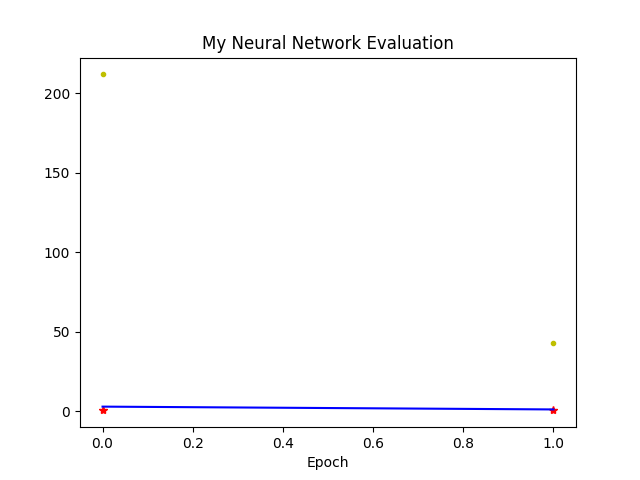
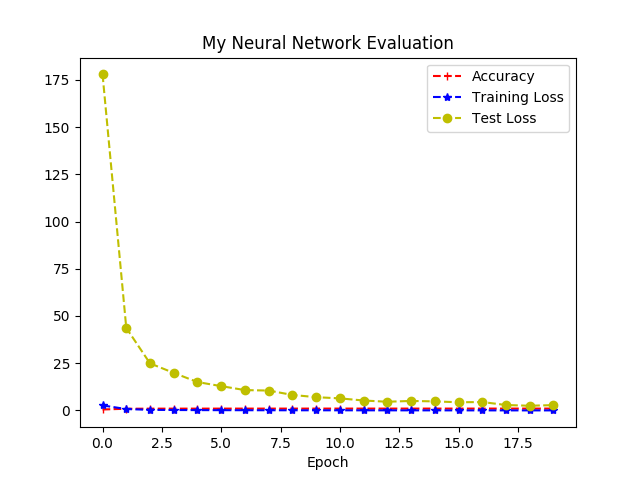
update

diff --git a/hwk4/nn_img2num.py b/hwk4/nn_img2num.py
@@ -10,7 +10,7 @@ import matplotlib.pyplot as plt
 class NNImg2Num:
     def __init__(self):
         self.train_batch_size = 60
-        self.epoch =2 
+        self.epoch =20
         self.labels = 10
         self.rate = 30 
         self.input_size = 28 * 28
@@ -102,12 +102,14 @@ class NNImg2Num:
             test_loss_list.append(test_loss)
             speed.append(e-s)
 
-        plt.plot(range(self.epoch), acc_list, 'r*', label='Accuracy')
-        plt.plot(range(self.epoch), train_loss_list, 'b-', label='Training Loss')
-        plt.plot(range(self.epoch), test_loss_list, 'y.', label='Test Loss')
+        plt.plot(range(self.epoch), acc_list, 'r|--', label='Accuracy')
+        plt.plot(range(self.epoch), train_loss_list, 'b*--', label='Training Loss')
+        plt.plot(range(self.epoch), test_loss_list, 'yo--', label='Test Loss')
         plt.xlabel('Epoch')
+        plt.legend()
         plt.title('Library Neural Network Evaluation')
         plt.savefig('nn_compare.png')
+        plt.clf()
         return speed
     def forward(self, img):
         

diff --git a/hwk4/my_img2num.py b/hwk4/my_img2num.py
@@ -8,7 +8,7 @@ import matplotlib.pyplot as plt
 class MyImg2Num:
     def __init__(self):
         self.train_batch_size = 60
-        self.epoch = 2
+        self.epoch = 20
         self.labels = 10
         self.rate = 0.1 
         self.input_size = 28 * 28
@@ -86,13 +86,14 @@ class MyImg2Num:
             train_loss_list.append(train_loss)
             test_loss_list.append(test_loss)
             speed.append(e-s)
-
-        plt.plot(range(self.epoch), acc_list, 'r*', label='Accuracy')
-        plt.plot(range(self.epoch), train_loss_list, 'b-', label='Training Loss')
-        plt.plot(range(self.epoch), test_loss_list, 'y.', label='Test Loss')
+        plt.plot(range(self.epoch), acc_list, 'r|--', label='Accuracy')
+        plt.plot(range(self.epoch), train_loss_list, 'b*--', label='Training Loss')
+        plt.plot(range(self.epoch), test_loss_list, 'yo--', label='Test Loss')
         plt.xlabel('Epoch')
+        plt.legend()
         plt.title('My Neural Network Evaluation')
         plt.savefig('my_compare.png')
+        plt.clf()
 
         
 
